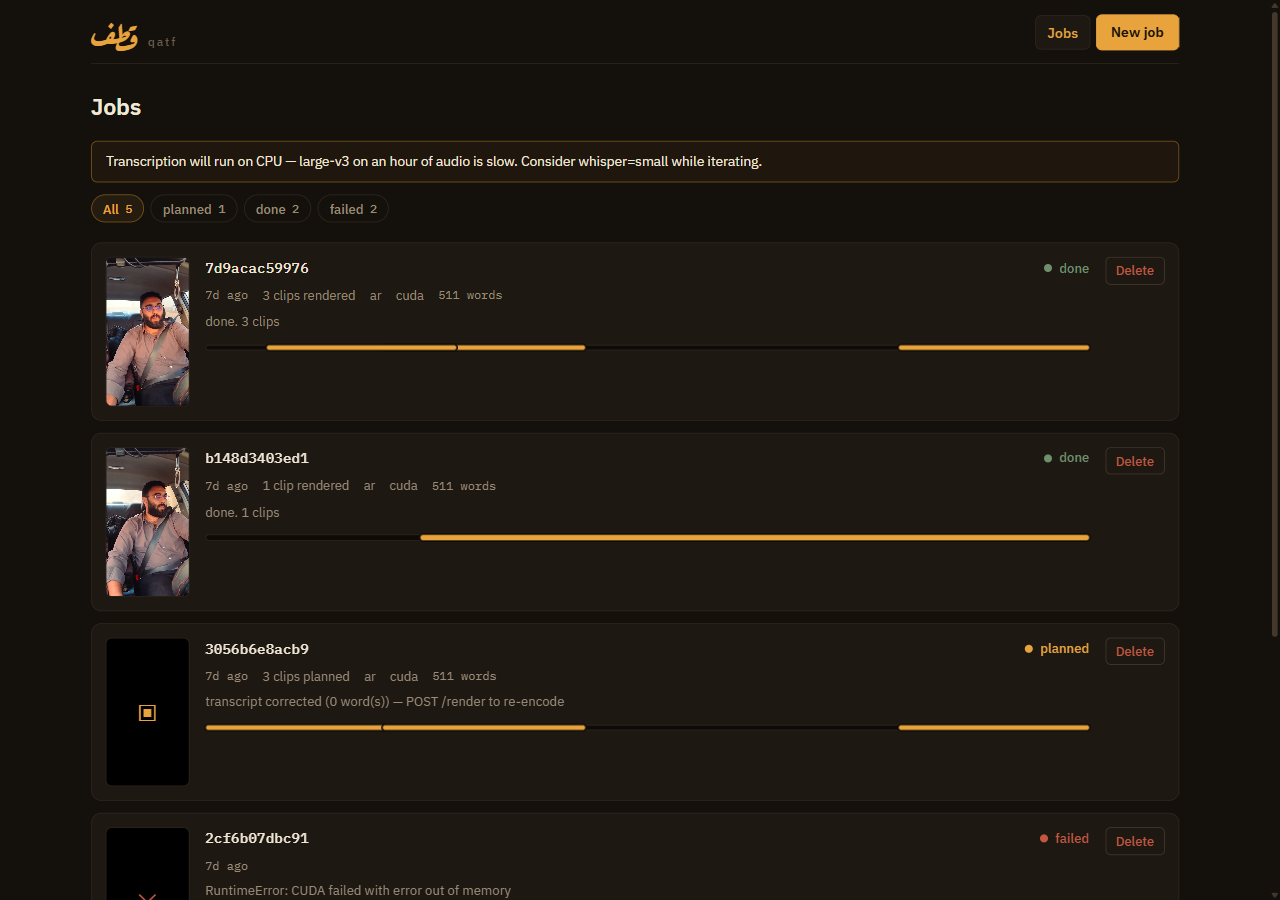
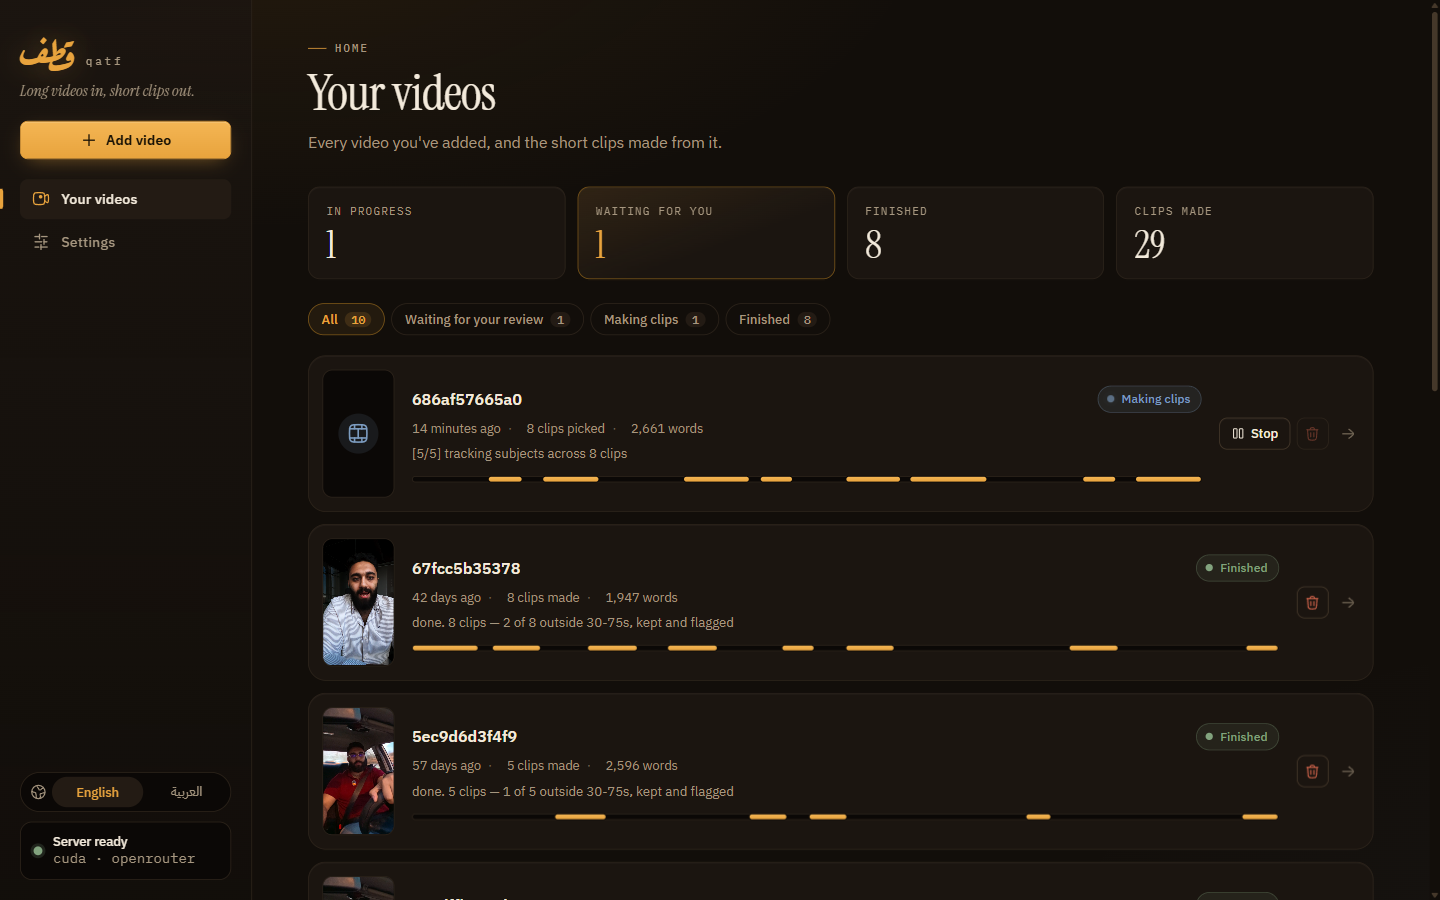
docs(readme): bring the README up to date
Several claims had gone stale or wrong:

- "Every deploy: block ships commented out" — the backend's GPU block is
  on now; says so, and what to delete on a machine without an NVIDIA GPU.
- "Settings are read once at startup" — the Settings page applies to the
  next job without a restart; .env still needs one. Notes that /healthz
  reports the environment's values, not a saved override.
- "Caption cues overlap ... unfixed" — fixed on 2026-08-20; removed.
- Per-suite test counts (359 / 155 / 38 / 23 / 28) were all out of date.
  Dropped rather than updated, since a copied number goes stale again.
- "No UI feature required a backend change" — render progress added an
  API field; reworded to what is true: every screen uses the public API.

Added: the four caption styles with a real Caption box frame, render
progress and Download all, the Settings page and thinking toggle, the
settings and suggest endpoints, the RTX 50-series first-run compile note,
the bundled Tajawal font in the licence section, a short Egyptian-Arabic
summary up top, and where contributions help most.

Screenshots retaken from the current UI (the old ones predated the
September redesign); the job page is JPEG, since its video frames made a
1 MB PNG. CONTRIBUTING.md's "354 passed" is now "0 failed".

diff --git a/README.md b/README.md
@@ -10,6 +10,11 @@ everything about *where* the cuts land is deterministic.
 
 قطف — *to pick, to harvest*.
 
+> **بالعربي:** أداة مفتوحة المصدر بتحوّل الفيديو الطويل لمقاطع قصيرة طولية
+> للـ Reels والـ Shorts والـ TikTok. بتفرّغ الكلام، وتختار أحسن اللحظات
+> بالذكاء الاصطناعي، وتكتب ترجمة عربي كلمة بكلمة. لسه prototype،
+> و[المساهمة مرحّب بيها جدًا](#contributing).
+
 ![The qatf jobs dashboard](docs/images/ui-dashboard.png)
 
 ```bash
@@ -38,13 +43,14 @@ docker compose up      # web UI on :3000, API on :8000
 
 ## What it does
 
-Five stages. Only two involve a model.
+Five stages. Two of them run a model — Whisper hears the words, an LLM picks
+the moments — and everything about where a cut lands is deterministic.
 
 ```text
 0. fetch       a URL → a local file            yt-dlp, on an exact-host allowlist
 1. audio       demux (optionally denoise)      ffmpeg
-2. transcribe  words with start/end times      faster-whisper — or a caption track
-3. select      which passages are worth it     the configured LLM        ← model
+2. transcribe  words with start/end times      faster-whisper — or a caption track  ← model
+3. select      which passages are worth it     the configured LLM                   ← model
 4. snap        cuts onto real word boundaries  deterministic
 5. render      reframe 9:16, burn captions     ffmpeg
 ```
@@ -73,13 +79,27 @@ RTL caption rendering here is *measured*, not assumed — including a libass bid
 bug that scrambles Arabic word order and which every obvious test reports as
 passing. See [the RTL caption bug](docs/troubleshooting.md#the-rtl-caption-bug).
 
-**Word-level captions, on Arabic too.** The default `box` caption style puts
-each line on a dark see-through box and lights the spoken word in yellow, one
-word at a time; `pill` and `marker` mark it with a capsule or a highlighter
-instead. That works on RTL too, where each word gets its own cue instead of
-sharing one that a highlight tag would scramble. `pop` (one caption line at a time) is still
-available, and is what a job renders automatically wherever shaped word
-measurement isn't. See [captions](docs/cli.md#captions--stage-5a).
+**Word-level captions, on Arabic too.** The spoken word lights up as it is
+said, on right-to-left text as well as left-to-right — each word gets its own
+cue, so there is no shared line for a highlight to scramble.
+
+![Caption box style on a real Arabic clip: the spoken word in yellow on a dark box](docs/images/captions-box.jpg)
+
+Four styles, picked from real renders of an Arabic talking-head video:
+
+| Style | Looks like |
+| --- | --- |
+| `box` (default) | the line on a dark see-through box, spoken word in yellow |
+| `pill` | the spoken word in a saffron capsule |
+| `marker` | the spoken word in a yellow highlighter box, black text |
+| `youtube` | the original pill, no outline, sitting lower |
+
+Every style but the original sits about 70% down the frame, above where TikTok
+and Shorts put their buttons, and none flashes a highlight on a word shorter
+than 0.15s. Cut-off stutters that YouTube's speech recognition writes with a
+tatweel (`كـ كـ`) are left out of the captions. `pop`, one caption line at a
+time, is the fallback wherever word measurement is unavailable. See
+[captions](docs/cli.md#captions--stage-5a).
 
 **The model never emits timing.** It reads the transcript at ~12-second
 resolution and returns `MM:SS`. Stage 4 then snaps those onto real word
@@ -119,6 +139,11 @@ cp .env.example .env      # from the repo root, then add one key
 whether its credential is present, and whether transcription will get a GPU —
 all before you submit an hour of audio.
 
+**No NVIDIA GPU?** `docker-compose.yaml` reserves one for the backend, and
+Compose refuses to start a service whose reservation it cannot meet. Delete the
+`deploy:` block under `qatf` and it runs on CPU — slowly for `large-v3`; see
+[Handing a container a GPU](#handing-a-container-a-gpu).
+
 Developing? The live-reload overlay bind-mounts your source into both
 containers, so an edit lands without an image rebuild:
 
@@ -134,13 +159,20 @@ only rebuild when a dependency changes. Details in
 
 ## The web UI
 
-Four screens over the same HTTP API — jobs, new job, job detail, transcript
-editor. The UI is purely additive: no feature in it required a backend change.
+Every screen sits on the public HTTP API, so anything the UI does a script can
+do too. In English and Arabic, with the whole layout mirrored for right-to-left.
 
 | | |
 | --- | --- |
-| ![Job page with clips and the plan editor](docs/images/ui-job.png) | ![Transcript editor](docs/images/ui-transcript.png) |
-| **Job page.** Rendered clips first, then where the picks came from, then the plan you can edit. | **Transcript editor.** Click a word to correct it. There is no timing input, by construction. |
+| ![Job page: eight rendered clips and a Download all button](docs/images/ui-job.jpg) | ![Transcript editor with Arabic text](docs/images/ui-transcript.png) |
+| **Job page.** Rendered clips first, each with its own download and one **Download all**. Then where the picks came from, then the plan you can edit. | **Transcript editor.** Click a word to correct it, or ask the model to suggest fixes. There is no timing input, by construction. |
+
+- **Live progress.** A YouTube download and the clip render each show a real
+  progress bar — ffmpeg's own reading of how much video is encoded, against the
+  plan's clip lengths. It reports video left to make, never a guessed countdown.
+- **Settings.** Change the AI provider, model and whether it thinks before
+  answering, without a restart; a change applies to the next video.
+- **Caption style** is picked per video, on the Add video page.
 
 Two things it refuses to let you do, on purpose:
 
@@ -180,8 +212,7 @@ qatf talk.mov -o out/ --plan out/plan.json
 
 # the full real-world invocation
 qatf talk.mov -o reels/ --language ar --clips 8 --min-len 28 --max-len 52 \
-  --denoise --vocab-file prompts/ar-tech.txt --fixups prompts/ar-fixups.txt \
-  --font "Traditional Arabic"
+  --denoise --vocab-file prompts/ar-tech.txt --fixups prompts/ar-fixups.txt
 
 # let the crop follow the subject instead of holding a static centre slice
 qatf talk.mov -o reels/ --reframe track
@@ -229,13 +260,20 @@ POST   /jobs/url              fetch a YouTube URL. 403 off the allowlist
 GET    /jobs, /jobs/{id}      list and poll
 GET    /jobs/{id}/transcript  words, as they will be captioned
 PUT    /jobs/{id}/transcript  correct misheard words — text only, never timings
+POST   /jobs/{id}/transcript/suggest  ask the model which words look misheard
 GET/PUT /jobs/{id}/plan       the hand-edit round trip; re-snaps unless you opt out
 POST   /jobs/{id}/render      encode the current plan
 POST   /jobs/{id}/cancel      cooperative — checked between stages and between clips
 DELETE /jobs/{id}             refuses while running
 GET    /jobs/{id}/clips       + /{name} to download
 GET    /healthz               ffmpeg, provider, credential, transcription device
+GET/PUT /settings             provider, model, effort, thinking, … for the next job
+DELETE /settings/{key}        back to the environment's value
 ```
+
+While a job runs, `GET /jobs/{id}` carries `fetch_progress` (the download) and
+`render_progress` (seconds of video encoded, against the plan's own clip
+lengths).
 
 States: `queued → fetching → extracting → transcribing → selecting → planned →
 rendering → done`, plus `failed` and `cancelled`. Set `auto_render: false` to
@@ -252,6 +290,8 @@ QATF_LLM_PROVIDER=anthropic     # openai | openai-legacy | kimi | glm
                                 # ollama | vllm | openrouter
 QATF_LLM_MODEL=...              # override the preset's default model
 QATF_LLM_BASE_URL=...           # point a preset at another host
+QATF_LLM_EFFORT=medium          # how hard a thinking model works
+QATF_LLM_THINKING=on            # off = as little deliberation as the model allows
 
 QATF_DATA_DIR=/data             # job records, sources, rendered clips
 QATF_MEDIA_ROOT=/media          # the sandbox POST /jobs paths must resolve inside
@@ -262,6 +302,11 @@ QATF_FFMPEG=... QATF_FFPROBE=...
 
 `media_root` is a security boundary, not a convenience: without it a `POST /jobs`
 body naming `../../etc/passwd` would transcribe any file the process can read.
+
+Eight of these — provider, model, base URL, effort, thinking, max tokens,
+timeout and workers — can also be changed from the Settings page (or
+`PUT /settings`). A saved value beats the environment and applies to the next
+job, no restart; `media_root` and `data_dir` are deliberately not editable.
 
 ---
 
@@ -279,15 +324,19 @@ touching code. Two environment variables do it:
 preset, key env var, and which of the three output tiers each honours. What
 follows is the runnable half.
 
-Settings are read **once at startup**, so every change below needs a restart:
+Environment variables are read **once at startup**, so a change in `.env` needs
+a restart:
 
 ```bash
 docker compose up -d qatf              # Docker
 # or restart qatf-serve / uvicorn
 ```
 
-Confirm it took with `GET /healthz`, which reports `llm_provider`, the resolved
-`model` and `llm_ready`.
+Confirm an `.env` change with `GET /healthz`, which reports `llm_provider`, the
+resolved `model` and `llm_ready`. Or skip the restart and set the provider and
+model on the Settings page instead — but check those on the Settings page
+itself, because `/healthz` reports the environment's values and does not yet
+reflect a saved override.
 
 ### Hosted
 
@@ -313,6 +362,10 @@ QATF_LLM_PROVIDER=glm     ZHIPU_API_KEY=...
 Reach for `anthropic` rather than `openrouter` when the model is Claude: routing
 Claude through an OpenAI-compatible shim costs schema-constrained output,
 adaptive thinking, and prompt caching of the transcript prefix.
+
+**Some models cannot stop thinking.** GPT-5 through OpenRouter refuses a request
+to turn reasoning off. Thinking is on by default; if you switch it off and the
+model refuses, the job says so and names the setting to change.
 
 ### Local — no key, no per-run cost
 
@@ -340,11 +393,16 @@ QATF_LLM_BASE_URL=http://vllm:8000/v1
 
 ### Handing a container a GPU
 
-Every `deploy:` block in `docker-compose.yaml` ships commented out. Uncomment
-the one under `ollama` or `vllm` for stage 3, or the one under `qatf` for
-faster-whisper. `GET /healthz` reports `cuda_devices` and `transcribe_device`,
-so you can tell whether a job will run on a GPU *before* submitting an hour of
-audio.
+The backend's `deploy:` block is **on**: the `qatf` service reserves one NVIDIA
+GPU for faster-whisper. Delete it on a machine without one. The blocks under
+`ollama` and `vllm` ship commented out; uncomment one for a local stage-3 model.
+`GET /healthz` reports `cuda_devices` and `transcribe_device`, so you can tell
+whether a job will run on a GPU *before* submitting an hour of audio.
+
+Newer cards (RTX 50-series) have no ready-made kernels in the CTranslate2 build,
+so the NVIDIA driver compiles them the first time Whisper runs — about 20
+seconds once. `CUDA_CACHE_PATH` keeps that compiled cache on the data volume, so
+it is paid once, not on every container rebuild.
 
 ### Four things that bite
 
@@ -416,34 +474,38 @@ and absent from `sys.modules` until something happened to call it.
 ## Testing
 
 All of it runs on [CI](.github/workflows/ci.yml) for every push and pull
-request. **626 of the checks need no ffmpeg, GPU, API key or network**, so you
-can run them locally in seconds:
+request. **Nearly a thousand checks need no ffmpeg, GPU, API key or network**,
+so you can run them locally in seconds:
 
 ```bash
 cd qatf-backend
-python tests/smoke_db.py          #  23   the SQLite layer, in isolation
-python tests/smoke_pipeline.py    # 359   stages 1-5, escaping, caches, trust boundaries
-python tests/smoke_llm.py         #  38   provider request shapes, with the SDK faked
-python tests/smoke_api.py         # 155   state machine, round trips, the OpenAPI document
-python tests/load_api.py          #  23   every endpoint under 24 threads, ~20s
+python tests/smoke_db.py          # the SQLite layer, in isolation
+python tests/smoke_pipeline.py    # stages 1-5, caption looks, escaping, caches, trust boundaries
+python tests/smoke_llm.py         # provider request shapes, with the SDK faked
+python tests/smoke_api.py         # state machine, round trips, progress, the OpenAPI document
+python tests/load_api.py          # every endpoint under 24 threads, ~20s
 ruff check .
 
 cd ../qatf-frontend
-npm test                          #  28   the API client and the server-rule mirrors
-npm run build                     #        tsc --noEmit is the type gate
+npm test                          # the API client, progress arithmetic, server-rule mirrors
+npm run build                     # tsc --noEmit is the type gate
 ```
+
+Each suite prints its own `N passed, 0 failed`; the counts are left out of this
+page on purpose, because a number copied here is a number that goes stale.
 
 One suite needs ffmpeg, because the only honest way to verify a filtergraph is to
 render through it and measure the result:
 
 ```bash
 cd qatf-backend
-python tests/verify_render.py     #  19 with OpenCV, 11 without
+python tests/verify_render.py     # ~40s
 ```
 
-The count depends on your install: the `track` extra (included in `[all]`) pulls
-in OpenCV, which unlocks a fixture that runs the real face detector. Without it
-that fixture skips rather than fails.
+What it runs depends on your install: OpenCV (the `track` extra, in `[all]`)
+unlocks a fixture that runs the real face detector, and fontconfig plus
+uharfbuzz unlock one that renders the word captions and checks the highlight
+moves right to left on Arabic. Without them those fixtures skip rather than fail.
 
 Two of these are worth understanding before you trust any of them:
 
@@ -464,22 +526,23 @@ Not production. Honest about what has and has not run:
 **Verified end to end.** A 12-minute 4K ProRes Arabic video recorded in a moving
 car — all five stages, real provider, 8 vertical clips with burned-in Arabic
 captions. Through the **CLI on a real GPU**, and separately through the **HTTP
-API, which ran on CPU** (`cuda_devices: 0` throughout — see below). Caption
-rendering confirmed by extracting frames and looking at them, in English *and*
-Arabic.
+API**. Caption rendering confirmed by extracting frames and looking at them, in
+English *and* Arabic; the caption styles were chosen from real renders of a 4K
+Arabic job, and their sizes measured against what libass actually draws, to the
+pixel. Render progress checked against real ffmpeg.
 
 **Not verified.** Every provider except OpenRouter against its real endpoint —
 `smoke_llm.py` pins what we *send*, but those endpoints have never replied.
 Arabic *selection* quality on any non-Claude provider. Whisper's **word
 timestamp accuracy** on Arabic: spelling quality is measured, but nobody has
 checked whether the boundaries `snap` depends on land where words actually
-start. The API on a GPU host.
+start. A full job's speed through the API on a GPU: passthrough works
+(`cuda_devices: 1` on an RTX 5070) but nobody has timed one.
 
 **Known gaps.** No loudness normalisation, no silence trimming, no
 scene-change detection. Jobs do not survive a restart. Cancellation is
 cooperative — it cannot interrupt an ffmpeg or Whisper call already in flight.
-Caption cues overlap by ~3 frames on continuous speech
-([measured and unfixed](docs/troubleshooting.md#two-captions-are-on-screen-at-once)).
+`--reframe track` frames the largest face, not the person speaking.
 
 **The API has no authentication.** Anything you put in front of it is the only
 gate. Read [security.md](docs/security.md) before exposing a port.
@@ -494,7 +557,21 @@ gate. Read [security.md](docs/security.md) before exposing a port.
 value per effort, and loudness normalisation at the top is close to a one-line
 filter add.
 
-The short version: this codebase cares more about *why* a number is what it is
+Where help is most useful right now:
+
+- **Measure Whisper's word timing on Arabic.** Cuts and the caption highlight
+  both depend on it, and nobody has checked it against the audio.
+- **Find the person speaking.** Tracking follows the largest face, so a
+  two-person shot can frame the listener.
+- **Loudness normalisation** — close to a one-line ffmpeg filter.
+- **Try open models for Arabic clip selection** (GLM, Kimi, Qwen via Ollama) and
+  report how many clips land in range and whether they are any good.
+- **Vocabulary lists for dialects** — Egyptian, Gulf, Levantine — like
+  `prompts/ar-tech.txt`. They are the biggest lever on transcription quality.
+- **Try it on your own video and open an issue with what broke.** That is a
+  real contribution.
+
+The short version of the rules: this codebase cares more about *why* a number is what it is
 than about the number. So a change to a default needs a measurement, and a
 change to a filtergraph or to caption generation needs a rendered frame somebody
 actually looked at — ffprobe reporting correct dimensions is not sufficient, and
@@ -526,9 +603,10 @@ governorate one vowel away in Latin transliteration.
 commercially. It also carries an explicit patent grant from every contributor,
 which MIT does not.
 
-One bundled third party: the YuNet face-detection weights used by
-`--reframe track` are MIT (Copyright 2020 Shiqi Yu), and `LICENSE.yunet` travels
-beside them. [NOTICE](NOTICE) covers attribution;
+Two bundled third parties: the YuNet face-detection weights used by
+`--reframe track` are MIT (Copyright 2020 Shiqi Yu), with `LICENSE.yunet` beside
+them; and the Tajawal Bold font the captions draw in is SIL OFL 1.1 (Copyright
+2018 Boutros International), with `Tajawal-OFL.txt` beside it. [NOTICE](NOTICE) covers attribution;
 [docs/licensing.md](docs/licensing.md) is the full dependency audit.
 
 **ffmpeg is a system dependency, invoked as a subprocess and never linked**, so

diff --git a/CONTRIBUTING.md b/CONTRIBUTING.md
@@ -23,7 +23,7 @@ git clone <your fork> && cd qatf
 # backend
 cd qatf-backend
 pip install -e ".[all,dev]"        # dev adds httpx + ruff for the suites
-python tests/smoke_pipeline.py     # should print "354 passed, 0 failed"
+python tests/smoke_pipeline.py     # should end with "0 failed"
 
 # frontend
 cd ../qatf-frontend
